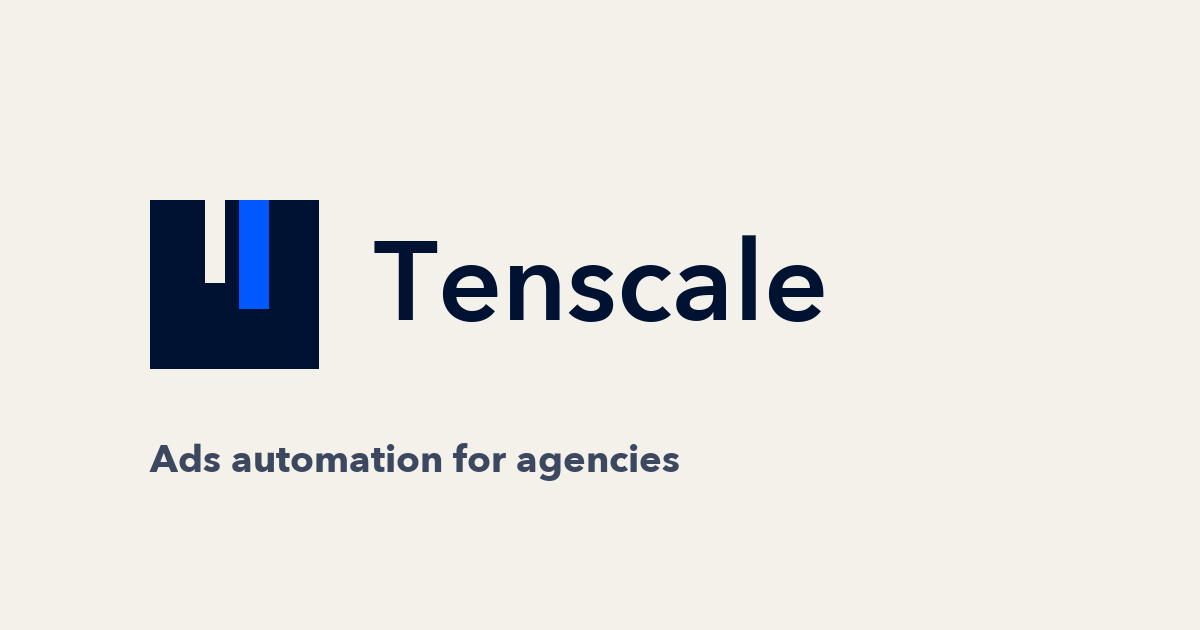
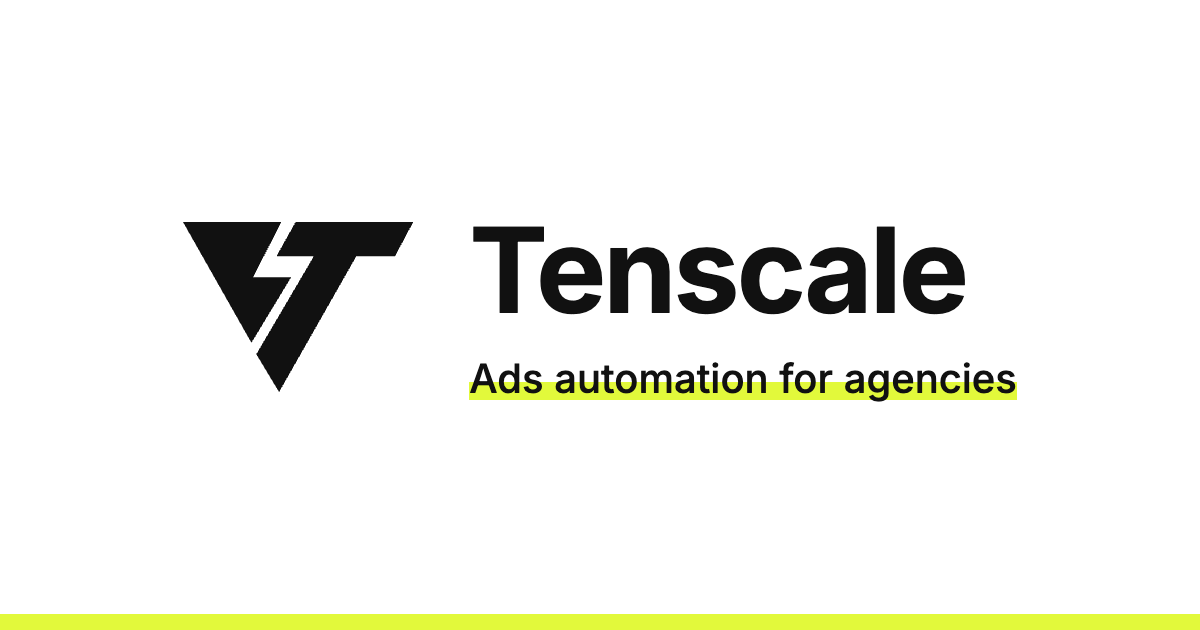
A shared landing link shows the landing, in the new brand
Pasted into a chat or a post, the landing previewed as the company page: its
title, its description and the old navy-and-blue card. The landings now carry
their own title, description, URL and a card with the headline, in white,
black and the lime (src/lib/landing-metadata.ts). A page that sets openGraph
replaces the layout's block instead of merging, so the helper repeats the site
name and type.

The company card is redrawn in the same brand, with ?v=2 so scrapers that
cached the old one fetch it again. The browser tab showed Next.js's default
triangle: src/app/favicon.ico had never been replaced and shadowed the one in
public/. Both, and the 512px icon in the company page's structured data, are
now the lime TS mark on black.

diff --git a/src/lib/landing-metadata.ts b/src/lib/landing-metadata.ts
@@ -1,0 +1,41 @@
+import type { Metadata } from "next";
+
+/**
+ * The landing's title, description and shared-link card, for /landing,
+ * /landing-sp and their colour variants.
+ *
+ * A page that sets `openGraph` replaces the layout's whole block rather than
+ * merging into it, so the site name, type and card are repeated here. Without
+ * this a landing link pasted into a chat or a post previewed as the company
+ * page: its title, its description and the company card.
+ */
+const TITLE = "Tenscale: We Automate Your Client Fulfillment In 30 Days";
+const DESCRIPTION =
+  "For owners of $1M to $4M marketing lead gen agencies. We install a Meta Ads Automation Engine that handles creative production, campaign setup, testing, optimization and scaling.";
+const CARD = {
+  url: "/og-landing.png",
+  width: 1200,
+  height: 630,
+  alt: "We'll Automate Your Client Fulfillment in 30 Days And Make It Better. Or You Don't Pay.",
+};
+
+export function landingMetadata(path: string): Metadata {
+  return {
+    title: TITLE,
+    description: DESCRIPTION,
+    openGraph: {
+      title: TITLE,
+      description: DESCRIPTION,
+      url: path,
+      siteName: "Tenscale",
+      type: "website",
+      images: [CARD],
+    },
+    twitter: {
+      card: "summary_large_image",
+      title: TITLE,
+      description: DESCRIPTION,
+      images: [CARD.url],
+    },
+  };
+}

diff --git a/src/app/layout.tsx b/src/app/layout.tsx
@@ -59,6 +59,8 @@ const DESCRIPTION =
  * `metadataBase` makes the relative image below resolve to an absolute URL,
  * which is the only form a scraper accepts. Without the card image, a link
  * pasted into Slack, iMessage or a Meta ad preview renders as bare text.
+ * The `?v=` changes with the card, so a scraper that cached the old image
+ * fetches the new one.
  */
 export const metadata: Metadata = {
   metadataBase: new URL(SITE),
@@ -70,13 +72,13 @@ export const metadata: Metadata = {
     url: SITE,
     siteName: "Tenscale",
     type: "website",
-    images: [{ url: "/og.png", width: 1200, height: 630, alt: "Tenscale" }],
+    images: [{ url: "/og.png?v=2", width: 1200, height: 630, alt: "Tenscale" }],
   },
   twitter: {
     card: "summary_large_image",
     title: TITLE,
     description: DESCRIPTION,
-    images: ["/og.png"],
+    images: ["/og.png?v=2"],
   },
 };
 

diff --git a/src/app/landing-sp/page.tsx b/src/app/landing-sp/page.tsx
@@ -7,11 +7,10 @@ import { Objections } from "@/components/ec/Objections";
 import { ResultShots } from "@/components/ec/ResultShots";
 import { SiteFooter } from "@/components/ec/SiteFooter";
 import { StickyCta } from "@/components/ec/StickyCta";
+import { landingMetadata } from "@/lib/landing-metadata";
 
 export const metadata: Metadata = {
-  title: "Tenscale: We Automate Your Client Fulfillment In 30 Days",
-  description:
-    "For owners of $1M to $4M marketing lead gen agencies. We install a Meta Ads Automation Engine that handles creative production, campaign setup, testing, optimization and scaling.",
+  ...landingMetadata("/landing-sp/"),
   // Paid traffic only for now. Remove this line the day the page should also
   // be findable in search; leaving it in place silently keeps it out.
   robots: { index: false, follow: false },

diff --git a/src/app/landing/page.tsx b/src/app/landing/page.tsx
@@ -6,11 +6,10 @@ import { HeroFold } from "@/components/ec/HeroFold";
 import { Objections } from "@/components/ec/Objections";
 import { SiteFooter } from "@/components/ec/SiteFooter";
 import { StickyCta } from "@/components/ec/StickyCta";
+import { landingMetadata } from "@/lib/landing-metadata";
 
 export const metadata: Metadata = {
-  title: "Tenscale: We Automate Your Client Fulfillment In 30 Days",
-  description:
-    "For owners of $1M to $4M marketing lead gen agencies. We install a Meta Ads Automation Engine that handles creative production, campaign setup, testing, optimization and scaling.",
+  ...landingMetadata("/landing/"),
   // Paid traffic only for now. Remove this line the day the page should also
   // be findable in search; leaving it in place silently keeps it out.
   robots: { index: false, follow: false },

diff --git a/src/app/landing-sp-blue/page.tsx b/src/app/landing-sp-blue/page.tsx
@@ -7,11 +7,10 @@ import { Objections } from "@/components/ec/Objections";
 import { ResultShots } from "@/components/ec/ResultShots";
 import { SiteFooter } from "@/components/ec/SiteFooter";
 import { StickyCta } from "@/components/ec/StickyCta";
+import { landingMetadata } from "@/lib/landing-metadata";
 
 export const metadata: Metadata = {
-  title: "Tenscale: We Automate Your Client Fulfillment In 30 Days",
-  description:
-    "For owners of $1M to $4M marketing lead gen agencies. We install a Meta Ads Automation Engine that handles creative production, campaign setup, testing, optimization and scaling.",
+  ...landingMetadata("/landing-sp-blue/"),
   // Paid traffic only, like /landing-sp.
   robots: { index: false, follow: false },
 };

diff --git a/src/app/landing-sp-bl/page.tsx b/src/app/landing-sp-bl/page.tsx
@@ -7,11 +7,10 @@ import { Objections } from "@/components/ec/Objections";
 import { ResultShots } from "@/components/ec/ResultShots";
 import { SiteFooter } from "@/components/ec/SiteFooter";
 import { StickyCta } from "@/components/ec/StickyCta";
+import { landingMetadata } from "@/lib/landing-metadata";
 
 export const metadata: Metadata = {
-  title: "Tenscale: We Automate Your Client Fulfillment In 30 Days",
-  description:
-    "For owners of $1M to $4M marketing lead gen agencies. We install a Meta Ads Automation Engine that handles creative production, campaign setup, testing, optimization and scaling.",
+  ...landingMetadata("/landing-sp-bl/"),
   // Paid traffic only, like /landing-sp.
   robots: { index: false, follow: false },
 };

diff --git a/src/app/landing-blue/page.tsx b/src/app/landing-blue/page.tsx
@@ -6,11 +6,10 @@ import { HeroFold } from "@/components/ec/HeroFold";
 import { Objections } from "@/components/ec/Objections";
 import { SiteFooter } from "@/components/ec/SiteFooter";
 import { StickyCta } from "@/components/ec/StickyCta";
+import { landingMetadata } from "@/lib/landing-metadata";
 
 export const metadata: Metadata = {
-  title: "Tenscale: We Automate Your Client Fulfillment In 30 Days",
-  description:
-    "For owners of $1M to $4M marketing lead gen agencies. We install a Meta Ads Automation Engine that handles creative production, campaign setup, testing, optimization and scaling.",
+  ...landingMetadata("/landing-blue/"),
   // Paid traffic only, like /landing.
   robots: { index: false, follow: false },
 };

diff --git a/src/app/landing-bl/page.tsx b/src/app/landing-bl/page.tsx
@@ -6,11 +6,10 @@ import { HeroFold } from "@/components/ec/HeroFold";
 import { Objections } from "@/components/ec/Objections";
 import { SiteFooter } from "@/components/ec/SiteFooter";
 import { StickyCta } from "@/components/ec/StickyCta";
+import { landingMetadata } from "@/lib/landing-metadata";
 
 export const metadata: Metadata = {
-  title: "Tenscale: We Automate Your Client Fulfillment In 30 Days",
-  description:
-    "For owners of $1M to $4M marketing lead gen agencies. We install a Meta Ads Automation Engine that handles creative production, campaign setup, testing, optimization and scaling.",
+  ...landingMetadata("/landing-bl/"),
   // Paid traffic only, like /landing.
   robots: { index: false, follow: false },
 };
